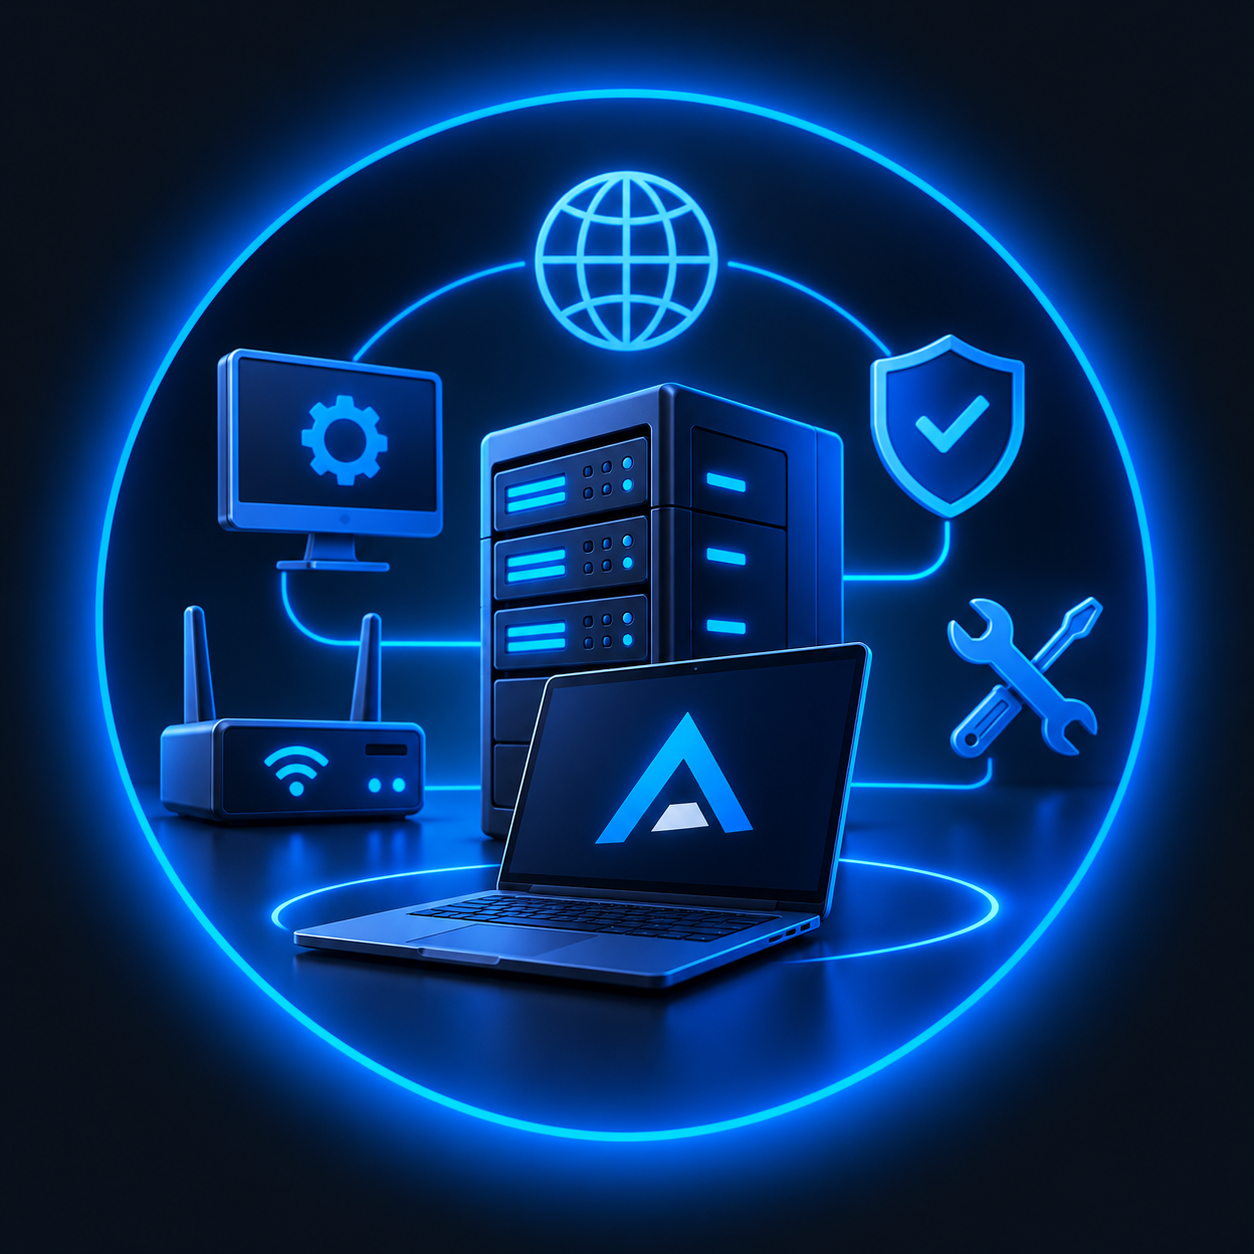
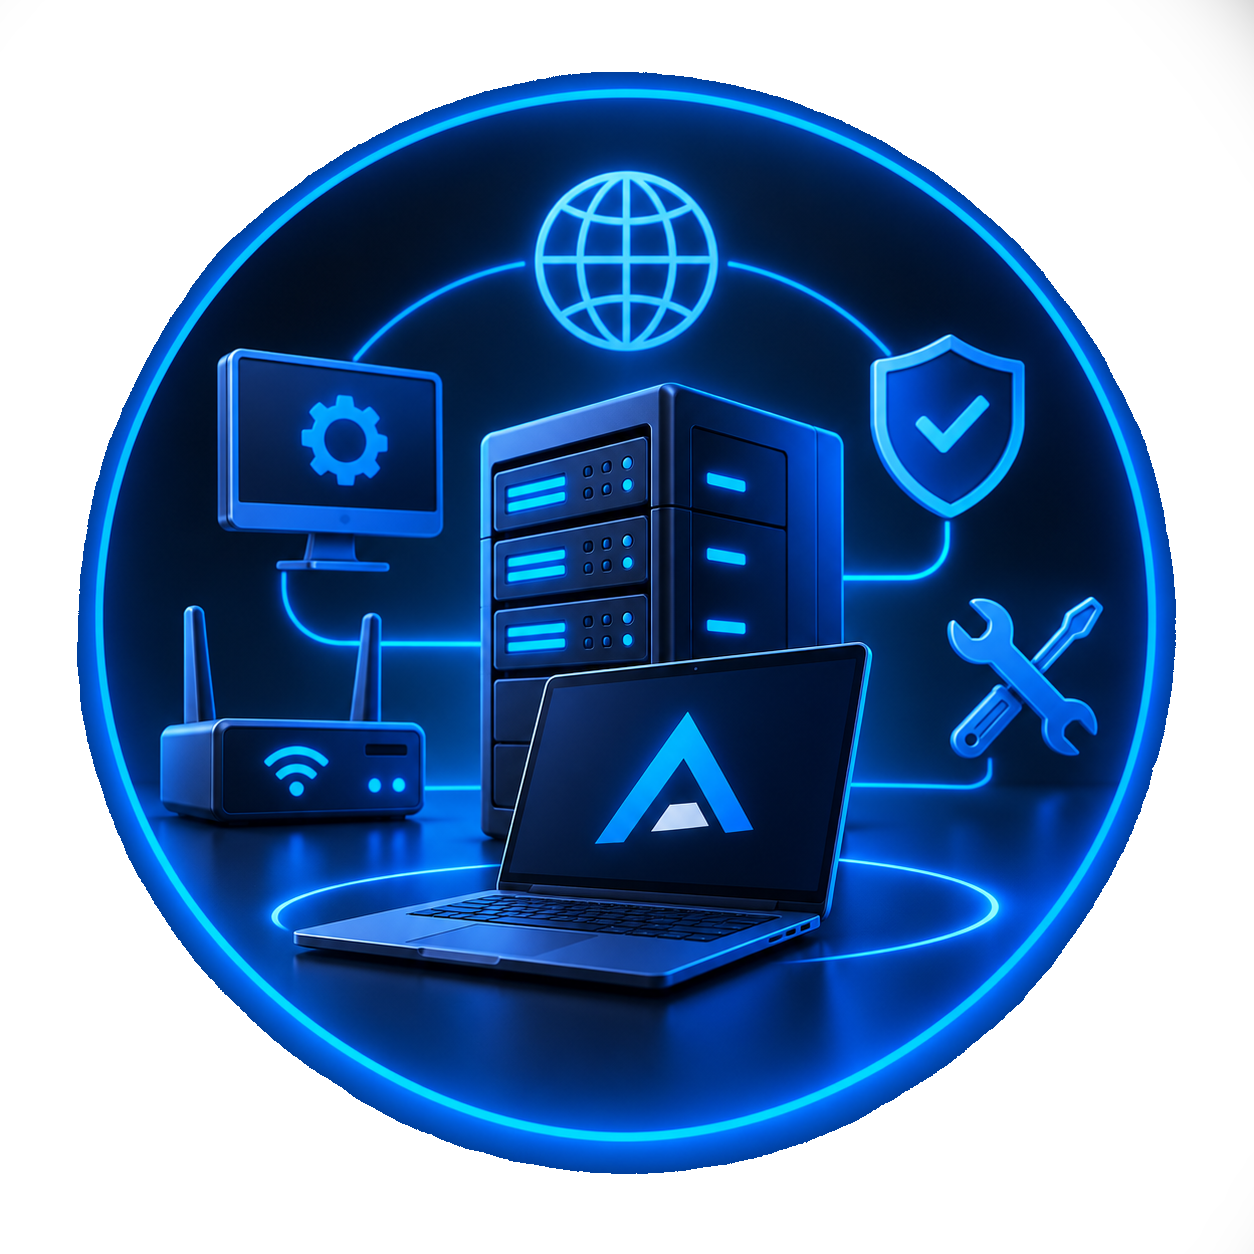
terminado, css de login y imagen cambiada

diff --git a/public/login.css b/public/login.css
@@ -3,90 +3,82 @@
   padding: 0;
   box-sizing: border-box;
 }
-
+ 
 body {
-  margin: 0;
+  min-height: 100vh;
+  display: grid;
+  place-items: center; /* centra el login en toda la pantalla */
   background-color: #1c2226;
   background-image: url(img/fondo.svg);
   background-repeat: no-repeat;
   background-position: right top;
   background-size: cover;
-  background-color: transparent;
 }
-
+ 
+.contendedor-login {
+  display: flex;
+  flex-direction: column;
+  align-items: center;
+  justify-content: center;
+  gap: 24px;
+  width: min(90%, 600px);
+  padding: 40px;
+  background-color: #141a2e;
+  border-radius: 25px;
+  border: 3px solid #2a3150;
+}
+ 
+.contendedor-login:hover {
+  box-shadow: 0 4px 42px #0085F6;
+  border-color: #0085F6;
+  transition: 300ms ease-out;
+}
+ 
 input {
-  border-radius: 10px;
-  padding-left: 20px;
-  padding-bottom: 20px;
-  padding-top: 20px;
   width: 100%;
+  height: 80px;
+  padding: 0 20px;
+  border-radius: 10px;
   background-color: #1e1e1e;
-  border: 0;
-  margin-bottom: 56px;
+  border: 2px solid transparent;
   font-family: "Inter", sans-serif;
-  font-size: 32px;
+  font-size: 28px;
   font-weight: bold;
   color: rgba(255, 255, 255, 0.5);
-  display: flex;
-  justify-content: center;
-  border: 2px solid transparent;
-  width: 60%;
-  height: 100px;
 }
-
+ 
 input:hover {
   box-shadow: 0 4px 42px #0085F6;
   border: 2px solid #0085F6;
   transition: 300ms ease-out;
 }
-
+ 
 input:focus {
   box-shadow: 0 4px 42px #0085F6;
   border: 2px solid #0085F6;
   outline: none;
 }
-
+ 
 ::placeholder {
   font-family: "Inter", sans-serif;
-  font-size: 32px;
+  font-size: 28px;
   font-weight: bold;
-  text-align: rgba(255, 255, 255, 0.5);
+  color: rgba(255, 255, 255, 0.5);
 }
-
-#iniciar-sesion, #iniciar-sesion:active, #iniciar-sesion:focus{
-    background-color: #0085F6;
-    font-family: "Inter", sans-serif;
-    border: 0;
-    border-radius: 15px;
-    box-shadow: 0 4px 82px #0085F6;
-    cursor: pointer;
-    box-sizing: border-box;
-    border: none;
-    outline: none;
-    padding: 8px 16px; 
-    color: white;
+ 
+#iniciar-sesion,
+#iniciar-sesion:active,
+#iniciar-sesion:focus {
+  width: 100%;
+  padding: 16px;
+  background-color: #0085F6;
+  font-family: "Inter", sans-serif;
+  font-size: 20px;
+  color: white;
+  border: none;
+  border-radius: 15px;
+  box-shadow: 0 4px 82px #0085F6;
+  cursor: pointer;
+  outline: none;
 }
-
-.contendedor-login {
-    padding-top: 20px;
-    display: flex;
-    flex-direction: column;
-    justify-content: center;
-    align-items: center;
-    padding: 40px 0;
-    width: 80%;
-    margin: 0 auto;
-    background-color: #141a2e;
-    gap: 10px;
-    height: 246px;
-    border-radius: 25px;
-    border: 2px solid #2a3150;
-    box-sizing: border-box;
-    border: 3px solid transparent;
-}
-
-.contendedor-login:hover {
-    box-shadow: 0 4px 42px #0085F6;
-    border: 3px solid #0085F6;
-    transition: 300ms ease-out;
-}
+ 

diff --git a/public/login.html b/public/login.html
@@ -8,9 +8,9 @@
 </head>
 <body>
     <div class="contendedor-login">
-    <input type="text" id="usuario" placeholder="Usuario" required />
-    <input type="password" id="contraseña" placeholder="Contraseña" required />
-    <button type="button" id="iniciar-sesion">Iniciar sesión</button>
+        <input type="text" id="usuario" placeholder="Usuario" required />
+        <input type="password" id="contraseña" placeholder="Contraseña" required />
+        <button type="button" id="iniciar-sesion">Iniciar sesión</button>
     </div>
     <script>
 document.getElementById('iniciar-sesion').addEventListener('click', async () => {
@@ -49,4 +49,5 @@ document.getElementById('iniciar-sesion').addEventListener('click', async () => 
     }
 });
 </script>
+</body>
 </html>
